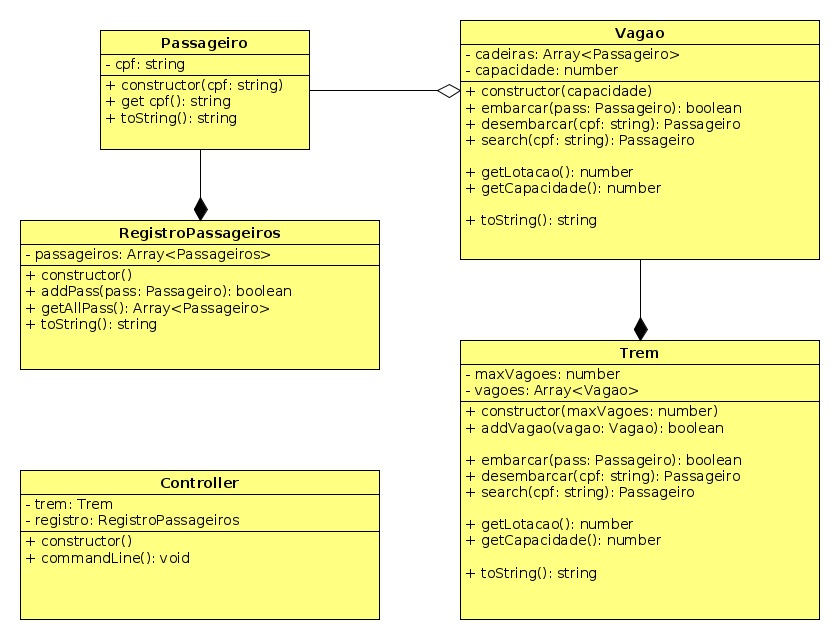
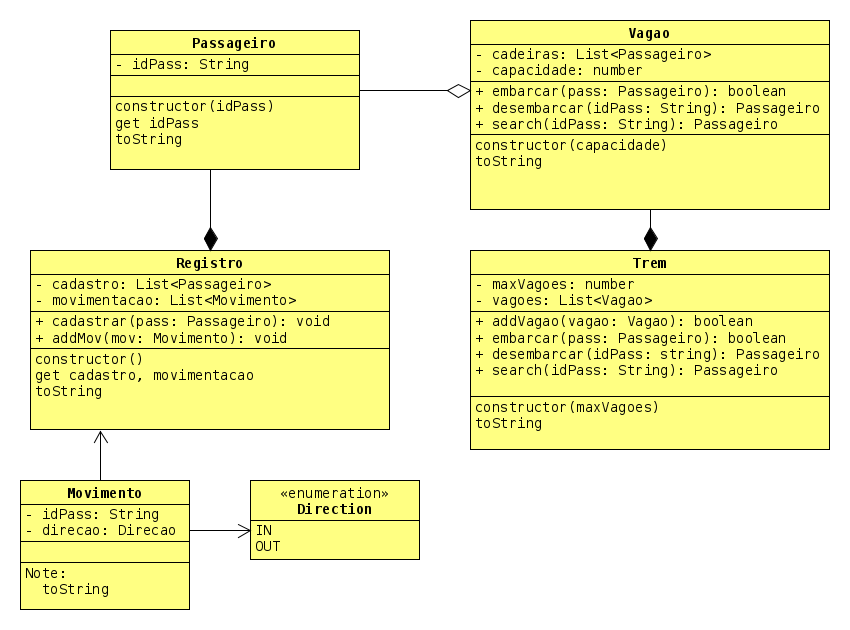
trem update

diff --git a/_posts/2001-03-01-trem.md b/_posts/2001-03-01-trem.md
@@ -10,80 +10,116 @@ tags:
 - padrão composite
 ---
 
-O objetivo desta atividade é imprementar um sistema que aloca passageiros em vagões de um trem. O trem é formado por uma locomotiva e uma série de vagões. É possível embarcar, desembarcar passageiros e ver o estado atual do trem.
+O objetivo desta atividade é imprementar um sistema que aloca passageiros em vagões de um trem. O trem é formado por uma série de vagões. É possível embarcar, desembarcar passageiros, ver quem está embarcado e a lista de passageiros que já passaram pelo nosso trem.
 
 ## Funcionalidades
 
-- **[2.0 P]** Inicie um novo trem com a quantidade limite de vagões máxima que ele pode carregar.
+**Parte 1 - Trem e Vagões**
 
-```
-iniciarTrem _qtdVagoes
-```
-
----
-- **[2P]** Adicionar um novo vagão.
-    - Ao adicionar observe o número máximo de vagões suportados pela locomotiva.
+- Inicie um novo trem com a quantidade limite de vagões máxima que ele pode carregar.
+  - Se há houver trem, inicie um novo trem.
+- Adicionar um novo vagão.
+    - Ao adicionar, observe o número máximo de vagões suportados pela locomotiva.
     - O vagão possui uma capacidade que define quantos lugares ele possui.
     - O vagão é adicionado ao final do trem.
-    - O idVagao é um número que identifica unicamente o vagão.
+- Mostrar o trem.
+    - Cada cadeira vazia deve ser mostrada por um -. Cada vagão deve ser delimitado por [ ].
 
 ```
-addVagao _capacidade
-  Vagao adicionado
-  fail: limite de vagoes atingido
+# inicar _maxVagoes
+# addVagao _capacidade
+
+iniciar 2
+  done
+addVagao 2
+  done
+show
+  Trem [ - - ]
+addVagao 3
+  done
+show
+  Trem [ - - ][ - - - ]
+addVagao 1
+  fail: limite de vagões atingido
 ```
 
----
-- **[3P]** Embarcar um novo passageiro.
+**Parte 2 - Embarque e Desembarque**
+
+- Embarcar um novo passageiro.
     - Ao tentar embarcar, o trem vai procurar a primeira cadeira livre a partir do primeiro vagão em ordem crescente.
     - Se não houver espaço livre em nenhum vagão então não haverá embarque.
-    - Passageiros possuem apenas um cpf e ele deve ser único no sistema.
-    - Não deve ser possível embarcar dois passageiros com o mesmo cpf, pois eles são a mesma pessoa.
-    
+    - Passageiros possuem apenas um idPass e ele deve ser único no sistema.
+    - Não deve ser possível embarcar duas vezes o mesmo passageiro no trem.
+- Desembarcar um passageiro
+    - Se o passageiro estiver no trem, ele sai do trem liberando sua cadeira.
 ```
-embarcar _passCpf
-  Passageiro embarcado com sucesso
-  fail: poltronas indisponiveis
-  fail: cpf já embarcado
-```
-
----
-- **[1E]** Desembarque um passageiro.
-    - Verifique se o passageiro está no trem.
-    - Retire o passageiro do trem.
-
-```
-desembarque _passCpf
-  Passageiro desembarcado
-  fail: O passageiro não esta no trem
-```
-
----
-- **[2E]** Mostre todos os vagões do trem.
-    - O vagão deve iniciar com um [ e finalizar com um ].
-    - Se a cadeira estiver vazia, escreva um -, se estiver ocupada, escreva o nome do passageiro.
-
-```
+# entrar _idPass
+entrar goku
 show
-  [lucas maria - - ][joao - -][- -]
+  Trem [ goku - ][ - - - ]
+entrar kate
+entrar sara
+entrar goku
+  fail: goku já está no trem
+show
+  Trem [ goku kate ][ sara ]
+entrar tina
+entrar james
+entrar rufus
+  fail: trem lotado
+show
+  Trem [ goku kate ][ sara tina james ]
+
+sair kate
+sair sara
+sair rufus
+  fail: rufus nao esta no trem
+show
+  Trem [ goku - ][ - tina james ]
+entrar alex
+show
+  Trem [ goku alex ][ - tina james ]
 ```
 
----
-- **[2E]** Mostrar registro de passageiros.
-    - Mostra todos os passageiros que passaram pelo trem, ordenados pelo cpf.
+**Parte 3 - Cadastro de Passeiros e Registro de Embarque**
+
+- Mostrar a lista de passageiros cadastrados.
+    - Quando um passageiro tenta embarcar ele é cadastrado no sistema, independente de conseguir ou não embarcar.
+    - Mostre a lista ordenada pelo id do passageiro.
+- Mostrar a sequência de embarque e desembarque.
 
 ```
-registro
-  _cpf1
-  _cpf2
-  _cpf3
-...
+entrar sara
+sair goku
+show
+  Trem [ - alex ][ sara tina james ]
+
+
+cadastro
+  alex
+  goku
+  james
+  kate
+  rufus
+  sara
+  tina
+
+movimentacao
+  goku in
+  kate in
+  sara in
+  tina in
+  james in
+  kate out
+  sara out
+  alex in
+  sara in
+  goku out
 ```
 
 ## Orientações
 - Se houverem orientações de como o projeto deve ser desenvolvido em cada linguagem, elas devem vir aqui.
 
 ## Diagrama de Classes
-- Gets, Sets e toString omitidos.
 
 ![](/assets/03_1_trem/diagrama.png)
